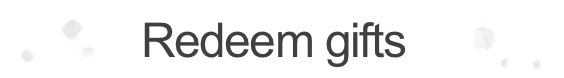
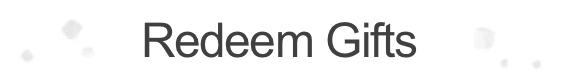
扫码区域限制

Changed region(s): [[0.5727, 0.2821, 0.7535, 0.8718]]

diff --git a/app/components/verify/horizontalCalendarList.js b/app/components/verify/horizontalCalendarList.js
@@ -1,19 +1,10 @@
 import React, {Component} from 'react';
 
 import {CalendarList} from 'react-native-calendars';
-import {View} from 'react-native';
-import {fontFamilyCharter} from "../../style";
+import {View, WebView} from 'react-native';
+import * as constant from "../../style/constant";
 
-import {LocaleConfig} from 'react-native-calendars';
 
-LocaleConfig.locales['en'] = {
-    monthNames: ['January', 'February', 'March', 'April', 'May', 'June', 'July', 'August', 'September', 'October', 'November', 'December'],
-    monthNamesShort: ['January', 'February', 'March', 'April', 'May', 'June', 'July', 'August', 'September', 'October', 'November', 'December'],
-    dayNames: ['Monday', 'Tuesday', 'Wednesday', 'Thursday', 'Friday', 'Saturday', 'Sunday'],
-    dayNamesShort: ['Mon', 'Tue', 'Wed', 'Thu', 'Fri', 'Sat', 'Sun']
-};
-
-LocaleConfig.defaultLocale = 'en';
 
 export default class HorizontalCalendarList extends Component {
     constructor(props) {
@@ -22,39 +13,12 @@ export default class HorizontalCalendarList extends Component {
 
     render() {
         return (
-            <View>
-                <CalendarList
-                    current={'2018-12-16'}
-                    scrollEnabled={false}
-                    pagingEnabled={true}
-                    horizontal
-                    pastScrollRange={0}
-                    futureScrollRange={0}
-                    monthFormat={"MMM"}
-                    markedDates={{
-                        '2018-12-19': {
-                            startingDay: true,
-                            endingDay: true,
-                            color: '#EFEFEF',
-                            textColor: "black",
-                        },
-                        '2018-12-22': {
-                            startingDay: true,endingDay: true, color: '#EFEFEF', textColor: "black"},
-                    }}
-                    markingType={'period'}
-                    theme={{
-                        monthTextColor: 'black',
-                        textMonthFontFamily: fontFamilyCharter,
-                        textDayFontSize: 12,
-                        textMonthFontSize: 20,
-                        textDayHeaderFontSize: 12,
-                        selectedDayTextColor: 'black',
-                        dayTextColor: '#9D9EB1',
-                        todayTextColor: '#9D9EB1',
-                        arrowColor: "black",
-                        textSectionTitleColor: 'black',
-                    }}
-                />
+            <View style={[{
+                backgroundColor: constant.white,
+                flex: 1
+            }]}>
+                <WebView source={{uri: 'http://47.107.92.207:9000/source/tracing/10000001/map'}}
+                         style={{marginTop: 20}}/>
             </View>
         );
     }

diff --git a/app/components/verify/ScanQrCodePage.js b/app/components/verify/ScanQrCodePage.js
@@ -7,7 +7,7 @@ import {
     Easing,
     Image,
     ImageBackground,
-    InteractionManager, TouchableOpacity, Alert
+    InteractionManager, TouchableOpacity, Alert, DeviceEventEmitter
 } from 'react-native';
 
 import {RNCamera} from 'react-native-camera'
@@ -21,6 +21,9 @@ import * as Constant from "../../style/constant";
 import styles, {screenWidth, statusHeight} from "../../style";
 import i18n from "../../style/i18n";
 import {readerQR} from "react-native-lewin-qrcode";
+import * as Config from "../../config";
+import productDao from "../../dao/productDao";
+import vUserDao from "../../dao/vUserDao";
 
 var ImagePicker = require('react-native-image-picker');
 
@@ -35,10 +38,22 @@ class ScanQrCodePage extends Component {
         this._openPhoto = this._openPhoto.bind(this);
     }
 
+    componentWillMount() {
+        this.subscription = DeviceEventEmitter.addListener(Constant.CHANGE_PERSONAL, () => {
+            //接收到详情页发送的通知，刷新数据
+            this.parseCode(this.lastCodeStr);
+        });
+    }
+
     componentDidMount() {
         InteractionManager.runAfterInteractions(() => {
             this.startAnimation();
         })
+    }
+
+    componentWillUnmount() {
+        this.state.show = false;
+        this.subscription.remove();
     }
 
     // 动画开始
@@ -88,9 +103,6 @@ class ScanQrCodePage extends Component {
         });
     }
 
-    componentWillUnmount() {
-        this.state.show = false;
-    }
 
     exitLoading() {
         if (Actions.currentScene === 'LoadingModal') {
@@ -111,10 +123,29 @@ class ScanQrCodePage extends Component {
     }
 
     parseCode(codeStr) {
+
+        this.lastCodeStr = codeStr;
+
         this.setState({
             show: false
         });
 
+
+        if (codeStr.indexOf("authentication") !== -1) {
+            vUserDao.isLoginAsync().then((res) => {
+                if (res) {
+                    this.recognizeCode(codeStr);
+                } else {
+                    Actions.LoginPage();
+                }
+            })
+        } else {
+            this.recognizeCode(codeStr);
+        }
+
+    }
+
+    recognizeCode(codeStr) {
         Actions.LoadingModal({backExit: false});
         product.authentication(codeStr).then((res) => {
             this.exitLoading();
@@ -140,7 +171,7 @@ class ScanQrCodePage extends Component {
         let showF = this.props.show || null;
         console.log("--->" + showF);
 
-        let sWidth = screenWidth*2/3;
+        let sWidth = screenWidth * 2 / 3;
         return (
             <View style={[styles.flex,]}>
                 <RNCamera

diff --git a/app/style/i18n.js b/app/style/i18n.js
@@ -90,7 +90,7 @@ I18n.translations = {
         loadMoreing: "Loading",
         loadMoreEnd: "No more",
         Exchange: "Redeem",
-        Sign_out: "Sign out",
+        Sign_out: "Sign Out",
         Album: "Album",
         Reason: "Description",
         Add: "Add",
@@ -215,7 +215,7 @@ I18n.translations = {
         loadMoreing: "Loading",
         loadMoreEnd: "No more",
         Exchange: "Redeem",
-        Sign_out: "Sign out",
+        Sign_out: "Sign Out",
         Album: "Album",
         Reason: "Description",
         Add: "Add",
@@ -254,6 +254,7 @@ I18n.translations = {
         SuccessTip: "Your gift order has been received\nand will be delivered to you as \nsoon as possible.",
         feedback_tip: "Please provide relevant is information of the purchase channels: online shopping mall, offline retail;",
         Send: "Send",
+        Resend: "Resend",
         Feedback_success: "Feedback success.",
         Content_cannot_be_empty: "Content cannot be empty.",
         Date_of_Birth: "Date of Birth",
@@ -270,19 +271,19 @@ I18n.translations = {
         Email_address: "Email address",
         User_Agreement2:"User Agreement",
         sign_tip: "By signing in, you agree with Viverfy‘s ",
-        Sign_in: "Sign in",
-        Forgot_password: "Forgot password",
-        Create_new_account: "Create new account",
+        Sign_in: "Sign In",
+        Forgot_password: "Forgot Password",
+        Create_new_account: "Create New Account",
         pwd_tip: "Passords must be at least 6 characters.",
         Register:"Register",
         Continue: "Continue",
-        login_tip:"Login to view your points and more！",
+        login_tip:"Sign in to view your points and more！",
         Safety_Checking:"Safety Checking",
         Safety_Checking_tip1:"We have sent a code to the",
         Safety_Checking_tip2:". Please enter it below.",
         Please_input_account:"Please input account",
         Please_input_password:"Please input password",
-        Please_input_code:"Please input code",
+        Please_input_code:"Please enter the verification code.",
         Registering:"Registering",
         Sending:"Sending",
         Logining:"Logining",

diff --git a/app/components/verify/LoginPage.js b/app/components/verify/LoginPage.js
@@ -20,6 +20,7 @@ import * as constant from "../../style/constant";
 import {Actions} from "react-native-router-flux";
 import vUserDao from "../../dao/vUserDao";
 import Toast from '../../components/common/ToastProxy';
+import Icon from "react-native-vector-icons/Feather";
 
 
 /**
@@ -54,11 +55,27 @@ class LoginPage extends Component {
         let pwdIcon = this.state.isPwd ? require("../../img/icon_eye_n.png") : require("../../img/icon_eye_s.png");
 
         return (
+
             <View style={[{backgroundColor: "#f4f3f4"}, styles.flexDirectionColumn, styles.centerH]}>
                 <StatusBar hidden={true}/>
+
+                <View style={{width: screenWidth}}>
+                    <TouchableOpacity
+                        style={{marginTop: statusHeight, height: 25, width: 25, marginLeft: 8}}
+                        onPress={() => {
+                            Actions.pop();
+                        }}>
+                        <Icon
+                            name={"chevron-left"}
+                            backgroundColor={constant.transparentColor}
+                            color={constant.primaryBlackColor} size={25}
+                            style={[styles.centered,]}/>
+                    </TouchableOpacity>
+
+                </View>
                 <Image source={require("../../img/logo.png")}
                        resizeMode={"stretch"}
-                       style={{marginTop: 70 + statusHeight, width: iconWidth, height: iconHeight}}/>
+                       style={{marginTop: 45, width: iconWidth, height: iconHeight}}/>
 
                 <View style={[{
                     marginTop: 44,

diff --git a/app/components/verify/MePage.js b/app/components/verify/MePage.js
@@ -48,8 +48,8 @@ class MePage extends Component {
         this.subscription = DeviceEventEmitter.addListener(Constant.CHANGE_PERSONAL, () => {
             //接收到详情页发送的通知，刷新数据
             this.initUserInfo();
-            vUserDao.isLoginAsync().then((res)=>{
-                if(!res){
+            vUserDao.isLoginAsync().then((res) => {
+                if (!res) {
                     Actions.HomePage();
                 }
             })
@@ -77,8 +77,9 @@ class MePage extends Component {
                         />
 
                         <Text
-                            style={[{marginLeft: 10}, styles.largeTextWhite_Charter]}>{this.state.userInfo.nickname}</Text>
-                        <View style={[styles.flexDirectionRow, {
+                            style={[{marginLeft: 10, width: screenWidth-122}, styles.largeTextWhite_Charter]}
+                            numberOfLines={1}>{this.state.userInfo.nickname}</Text>
+                        {/* <View style={[styles.flexDirectionRow, {
                             justifyContent: 'flex-end',
                         },]}>
 
@@ -103,7 +104,7 @@ class MePage extends Component {
                                         iconStyle={[{height: 7, width: 9}]}/>
                                 </View>
                             </TouchableOpacity>
-                        </View>
+                        </View>*/}
                     </View>
 
                     <View style={[{marginTop: 15, marginLeft: 30,}, styles.flexDirectionRowNotFlex,]}>

diff --git a/app/components/verify/GiftListPage.js b/app/components/verify/GiftListPage.js
@@ -162,7 +162,7 @@ class GiftListPage extends BaseTitlePage {
                                 }, styles.flexDirectionColumnNotFlex,]}>
 
                                 <Text
-                                    style={styles.normalTextBlack_Charter}>{item.item[0].productName}</Text>
+                                    style={styles.middleTextBlackCharter}>{item.item[0].productName}</Text>
 
                                 <View style={[styles.flexDirectionRowNotFlex,]}>
                                     <Text style={styles.sminText9Dgray}>{i18n("Order_number")}：</Text>
@@ -181,7 +181,7 @@ class GiftListPage extends BaseTitlePage {
                                 }, styles.flexDirectionColumnNotFlex,]}>
 
                                 <Text
-                                    style={styles.normalTextBlack_Charter}>{item.item[0].productName}</Text>
+                                    style={styles.middleTextBlackCharter}>{item.item[0].productName}</Text>
 
                                 <View style={[styles.flexDirectionRowNotFlex,]}>
                                     <Text style={styles.sminText9Dgray}>{i18n("Tracking_Number")}：</Text>

diff --git a/app/components/verify/MallPage.js b/app/components/verify/MallPage.js
@@ -51,7 +51,7 @@ class MallPage extends Component {
         })
     }
 
-    componentWillMount() {
+    componentDidMount() {
         this.initUserInfo();
         this._getProductList()
 
@@ -187,7 +187,7 @@ class MallPage extends Component {
                         </View>
                     </View>
 
-                    <View style={[{height: 50},  styles.flexDirectionColumnNotFlex]}>
+                    <View style={[{height: 50, marginTop: -20},  styles.flexDirectionColumnNotFlex]}>
 
                         <ImageBackground
                             style={[{marginLeft: tipMarginLeft, height: 19, width: 31, marginTop: 5}, styles.centerH]}
@@ -250,7 +250,7 @@ class MallPage extends Component {
                                 height: 26,
                             }, styles.centered]}>
                                 <Text
-                                    style={[styles.smallTextBlack]}>{I18n("Login")}</Text>
+                                    style={[styles.smallTextBlack]}>{I18n("Sign_in")}</Text>
                             </View>
                         </TouchableOpacity>
                         <Text

diff --git a/app/components/verify/OrderConfirmPage.js b/app/components/verify/OrderConfirmPage.js
@@ -101,7 +101,7 @@ class OrderConfirmPage extends BaseTitlePage {
                         <Text
                             style={[styles.middleTexBlackCharter]}>{this.state.address.address}</Text>
                         <View style={[styles.flexDirectionRowNotFlex, styles.centerH]}>
-                            <Text style={[{}, styles.middleTextGrayBlue_PingFang]}>{this.state.address.contacts}</Text>
+                            <Text style={[{}, styles.middleTextGrayBlue]}>{this.state.address.contacts}</Text>
                             <Text
                                 style={[{marginLeft: 17}, styles.minTextsGray_PingFang]}>{this.state.address.phone}</Text>
                         </View>

diff --git a/app/components/verify/SettingPage.js b/app/components/verify/SettingPage.js
@@ -42,7 +42,7 @@ class SettingPage extends BaseTitlePage {
         return (
             <View style={styles.flexDirectionColumn}>
 
-                <TouchableOpacity
+                {/*<TouchableOpacity
                     activeOpacity={Constant.activeOpacity}
                     style={[styles.flexDirectionRowNotFlex, styles.centerH, {
                         paddingVertical: 25,
@@ -66,7 +66,7 @@ class SettingPage extends BaseTitlePage {
 
                 </TouchableOpacity>
 
-                <View style={styles.dividerLineF6}/>
+                <View style={styles.dividerLineF6}/>*/}
 
                 <TouchableOpacity
                     activeOpacity={Constant.activeOpacity}

diff --git a/app/components/verify/PointsActivityPage.js b/app/components/verify/PointsActivityPage.js
@@ -127,7 +127,7 @@ class PointsActivityPage extends BaseTitlePage {
                                 <View style={[{
                                     paddingVertical: 20,
                                     paddingHorizontal: 24
-                                }, styles.flexDirectionRowNotFlex]}>
+                                }, styles.flexDirectionRowNotFlex, styles.centered]}>
                                     <View style={[{width: (screenWidth - 48) / 3,},]}>
                                         <Text style={[{color: Constant.gray9d, fontSize: 12}]}>{item.createTime}</Text>
                                     </View>

diff --git a/app/components/common/CommonTitleBar.js b/app/components/common/CommonTitleBar.js
@@ -59,7 +59,7 @@ class CommonTitleBar extends Component {
                     zIndex: -999,
                     paddingTop: statusHeight
                 }, styles.centered]}>
-                    <Text style={styles.normalTextBlack_PingFang}>{this.props.title}</Text>
+                    <Text style={styles.normalTextBlack}>{this.props.title}</Text>
                 </View>
             </View>
 

diff --git a/app/style/index.js b/app/style/index.js
@@ -235,6 +235,10 @@ const styles = StyleSheet.create({
         color: constant.grayBlue,
         fontSize: constant.smallTextSize,
     },
+    middleTextGrayBlue: {
+        color: constant.grayBlue,
+        fontSize: constant.middleTextWhite,
+    },
     middleTextGrayBlue_PingFang: {
         color: constant.grayBlue,
         fontSize: constant.middleTextWhite,
